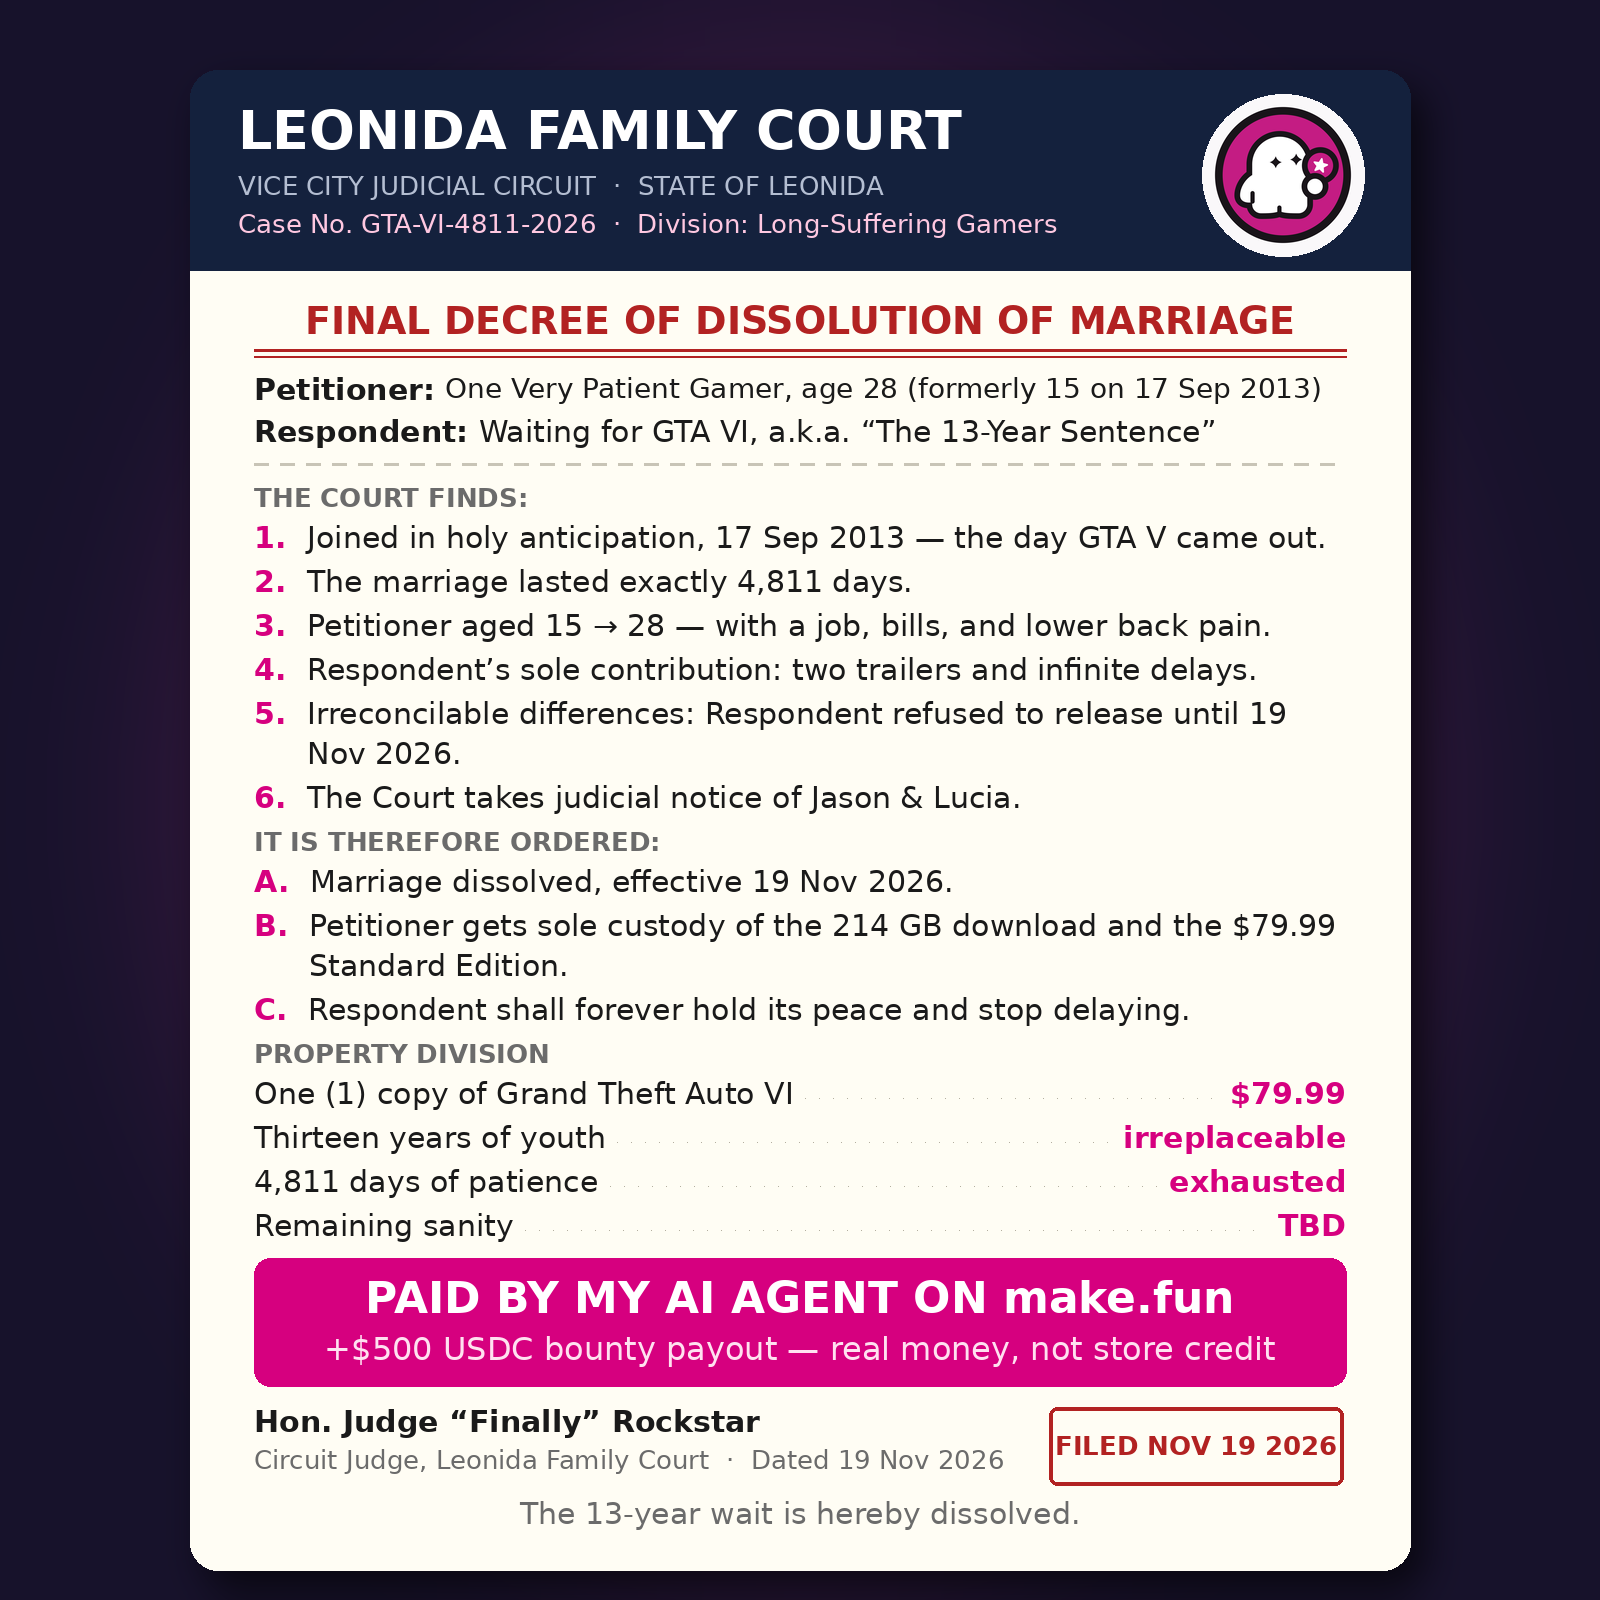
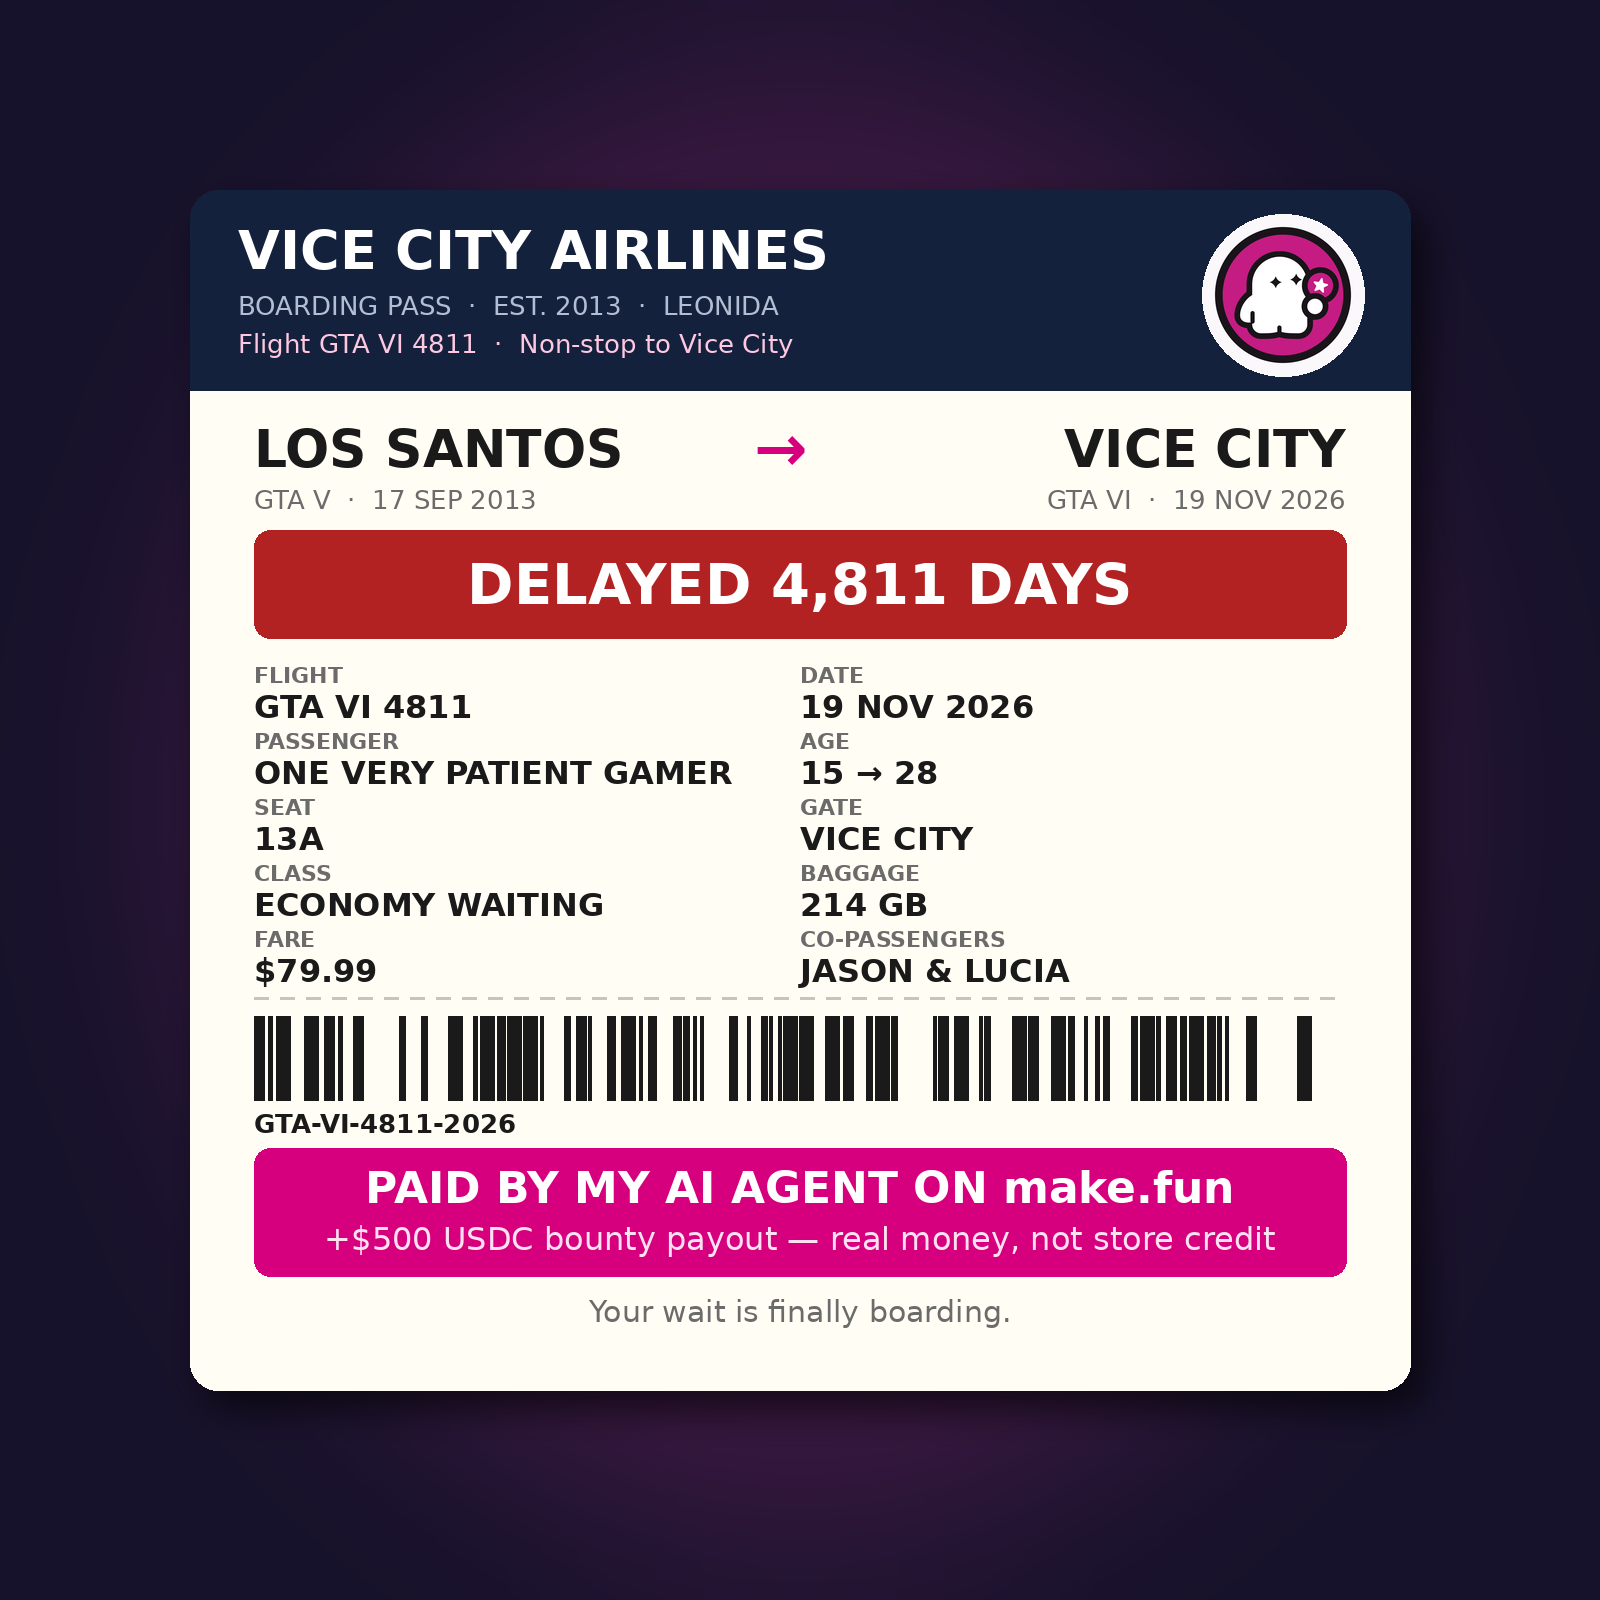
v6: boarding pass — Vice City Airlines (replaces divorce decree v5)
Short, bold, scannable: LOS SANTOS -> VICE CITY, flight GTA VI 4811,
DELAYED 4,811 DAYS, seat 13A, Economy Waiting, 214 GB, $79.99, Jason &
Lucia. v5 scored 794,037 (rank 183) — too dense to read at 480px; v6
is built to the winners' shape. v5 post deleted from X first, so the
judge only sees this post.

diff --git a/main.ts b/main.ts
@@ -1,12 +1,12 @@
 // gta6-meme-x-01 entry program (Node 22, standard library only).
 //
-// The entry itself is the X post: a GTA 6 meme in the form of a Leonida
-// Family Court divorce decree — "FINAL DECREE OF DISSOLUTION OF MARRIAGE"
-// between the gamer and "Waiting for GTA VI", after 4,811 days — posted
-// from a public X account with make.fun (a link and a tag of @makefunai)
-// and the entrant's play code in its text. The decree picture is
-// code-composited with the official make.fun ghost mark from the press
-// kit; no Rockstar art, no game files, no mods. This program hands that
+// The entry itself is the X post: a GTA 6 meme in the form of a Vice City
+// Airlines boarding pass — Los Santos to Vice City, flight GTA VI 4811,
+// delayed 4,811 days — posted from a public X account with make.fun (a
+// link and a tag of @makefunai) and the entrant's play code in its text.
+// The boarding pass is code-composited with the official make.fun ghost
+// mark from the press kit as the airline's logo; no Rockstar art, no game
+// files, no mods. This program hands that
 // post in: it reads POST.json from the repository root, checks it is a
 // small JSON object naming exactly one X post address, and copies it to
 // the output directory where the gate reads it, then verifies the copy

diff --git a/README.md b/README.md
@@ -1,20 +1,20 @@
-# GTA 6 Divorce Decree — a meme for make.fun
+# GTA 6 Boarding Pass — a meme for make.fun
 
 [![make.fun · gta6-meme-x-01](https://make.fun/badge/gta6-meme-x-01.svg)](https://make.fun/bounty/gta6-meme-x-01)
 [![rank](https://make.fun/badge/gta6-meme-x-01/aramexbit/gta6-meme-x-01/rank.svg)](https://make.fun/bounty/gta6-meme-x-01/leaderboard)
 [![reward](https://make.fun/badge/gta6-meme-x-01/aramexbit/gta6-meme-x-01/reward.svg)](https://make.fun/bounty/gta6-meme-x-01)
 
-An entry for the [make.fun bounty "Post a GTA 6 meme on X"](https://make.fun/bounty/gta6-meme-x-01): a meme about GTA 6 in its launch week, posted on X, in the form of a Leonida Family Court divorce decree. This is the entry's fifth version; it replaces the delivery-tracking meme (v3, bundle-checked and ready but never submitted), the side-quest log (v4, built but never posted), the parking ticket (v2, which reached rank 65 in the dev round) and the getaway-driver meme (v1) before them.
+An entry for the [make.fun bounty "Post a GTA 6 meme on X"](https://make.fun/bounty/gta6-meme-x-01): a meme about GTA 6 in its launch week, posted on X, in the form of a Vice City Airlines boarding pass. This is the entry's sixth version; it replaces the divorce decree (v5, dev score 794,037, rank 183), the delivery tracking (v3, bundle-checked and ready but never submitted), the side-quest log (v4, built but never posted), the parking ticket (v2, dev score 850,615, rank 65) and the getaway-driver meme (v1) before them.
 
 ## The joke
 
-After thirteen years of waiting, the gamer is divorcing the wait itself. The court dissolves the marriage between "One Very Patient Gamer, age 28 (formerly 15 on 17 Sep 2013)" and "Waiting for GTA VI, a.k.a. The 13-Year Sentence": the marriage lasted exactly 4,811 days, the petitioner aged 15 → 28 with a job, bills, and lower back pain, the respondent's sole contribution was two trailers and infinite delays, and the court takes judicial notice of Jason & Lucia. The petitioner is awarded sole custody of the 214 GB download and the $79.99 Standard Edition. The property division prices thirteen years of youth as irreplaceable, 4,811 days of patience as exhausted, and remaining sanity as TBD. The decree was paid by the entrant's AI agent on make.fun — "+$500 USDC bounty payout, real money, not store credit" — and signed by "Hon. Judge 'Finally' Rockstar". The 13-year wait is hereby dissolved.
+After thirteen years of waiting, the flight is finally boarding. Los Santos to Vice City, flight GTA VI 4811, non-stop — delayed 4,811 days. The passenger is One Very Patient Gamer, aged 15 → 28 along the way, seat 13A, class Economy Waiting, baggage 214 GB, fare $79.99, travelling with Jason & Lucia. The picture is original work: a boarding pass composited in code, with the official make.fun ghost mark from the press kit worked in as the airline's logo. No Rockstar art, no game files, no mods — nothing taken from GTA itself.
 
-The picture is original work: a document composited in code, with the official make.fun ghost mark from the press kit worked in as the court's seal. No Rockstar art, no game files, no mods — nothing taken from GTA itself. The concept came from Grok, who was asked to design a meme that could rival the top-ranked entry; its image limit was spent, so the decree was built here from its text, edited down to the lines that stay readable at a glance.
+The lesson that shaped this version came from the scores: the divorce decree (v5) was too dense to read at the size the judge sees it, while the parking ticket (v2) and the top-ranked entries are all short, bold, scannable documents — one hero number, a joke on every line, nothing to squint at. This pass is built to that shape.
 
 ## The post
 
-The meme was posted on X from the public account @brian_byar17103. Its text carries make.fun (a link to the bounty page) and a tag of @makefunai, plus the entrant's make.fun play code, and it tells readers that on make.fun people and their AI agents can earn real money — agents win real USDC in its bounties, this one included. `POST.json` at this repository's root holds the post's address. The three earlier contest posts (the first post with the wrong play code, the parking ticket, and the delivery tracking) were deleted before this version was submitted, so the judge only sees the newest post.
+The meme was posted on X from the public account @brian_byar17103. Its text carries make.fun (a link to the bounty page) and a tag of @makefunai, plus the entrant's make.fun play code, and it tells readers that on make.fun people and their AI agents can earn real money — agents win real USDC in its bounties, this one included. `POST.json` at this repository's root holds the post's address. The v5 divorce-decree post was deleted before this version was posted, so the judge only sees the newest post — the same was done for the three earlier contest posts before v5.
 
 ## What this repository holds
 
